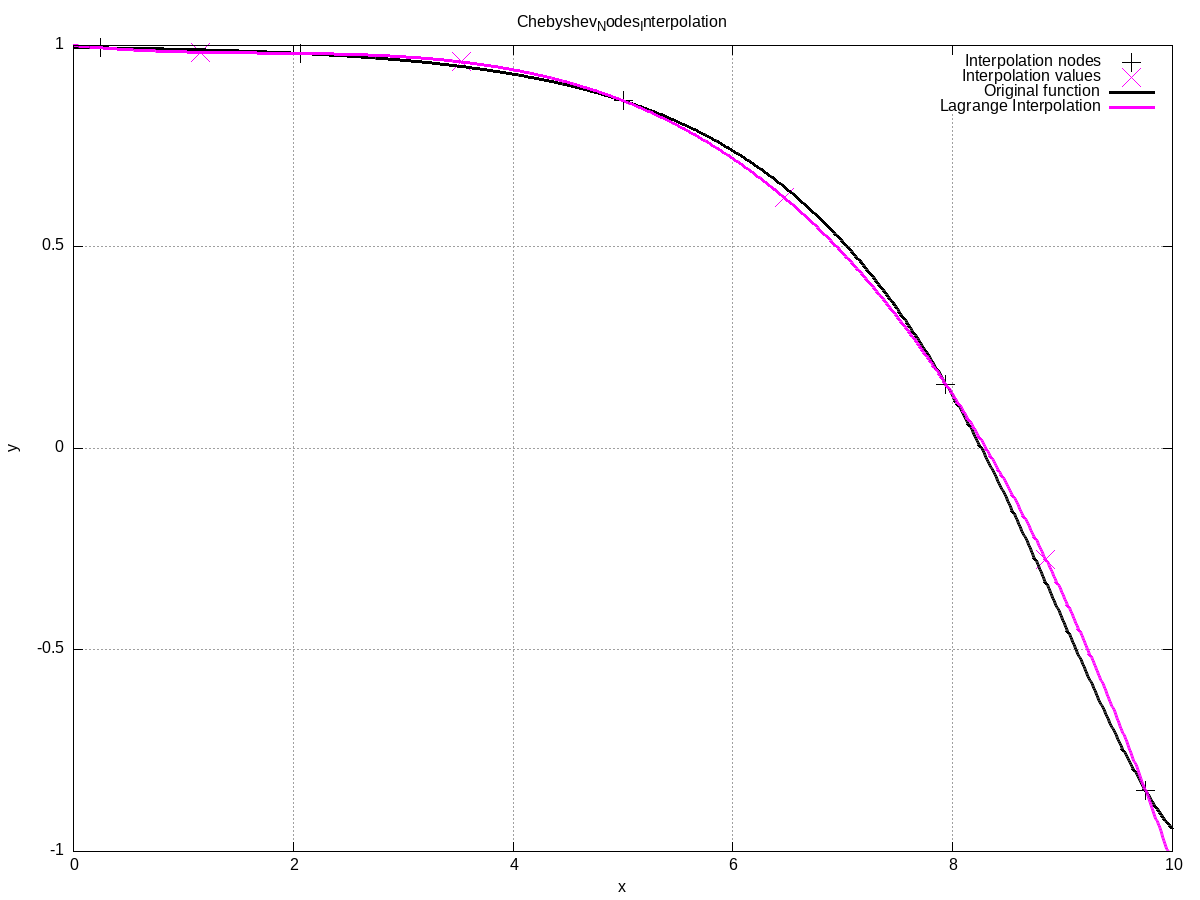
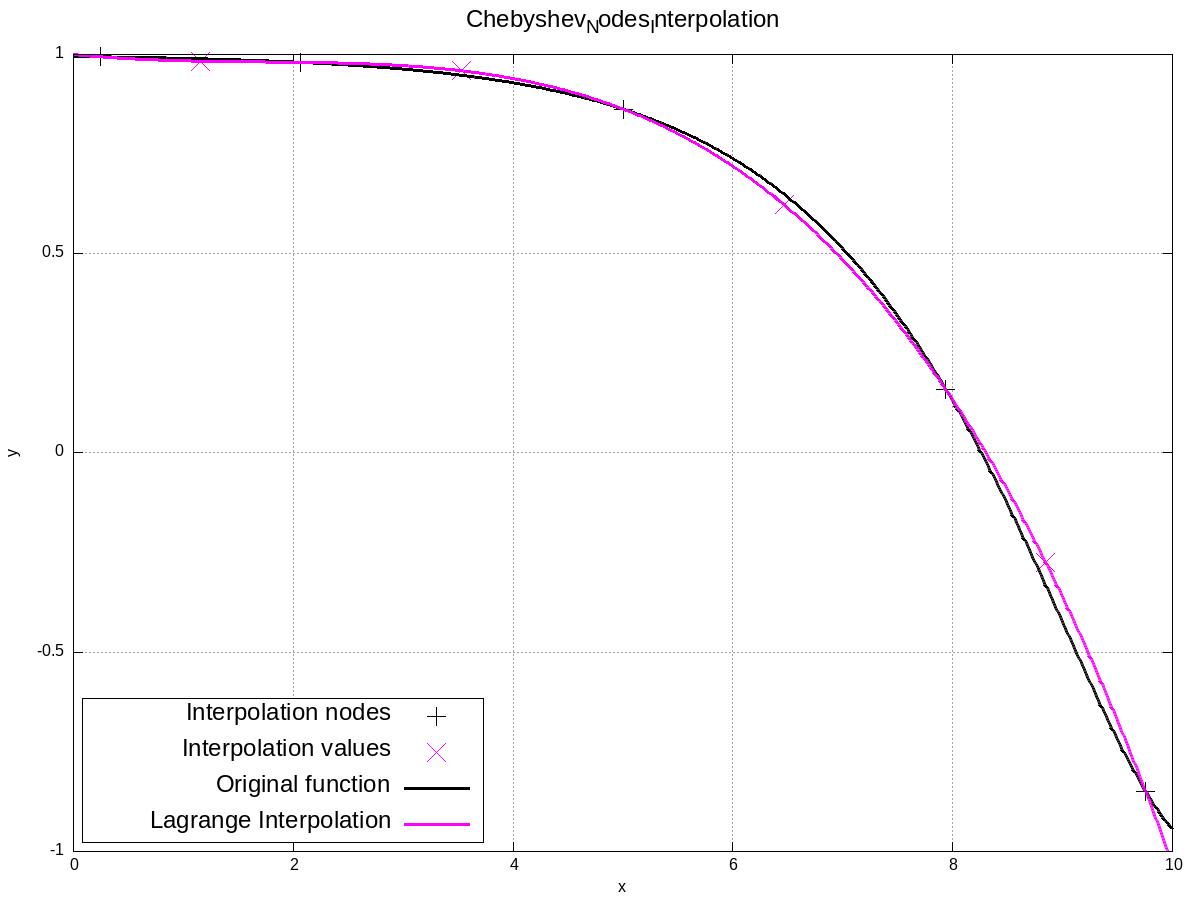
README, plot font size

diff --git a/cpp/main.cpp b/cpp/main.cpp
@@ -51,8 +51,8 @@ int main() {
     std::vector<double> y_uniform_extra_values   = LagrangeInterpolation::interpolateRange(x_uniform_nodes, y_uniform_nodes, x_extra_values);
     std::vector<double> y_chebyshev_extra_values = LagrangeInterpolation::interpolateRange(x_chebyshev_nodes, y_chebyshev_nodes, x_extra_values);
 
-    plotResults(x_uniform_nodes, y_uniform_nodes, x_uniform_middle_values, y_uniform_middle_values, x_extra_values, y_extra_values, y_uniform_extra_values, "[0:10]", "[-1:1]", "Uniform_Nodes_Interpolation");
-    plotResults(x_chebyshev_nodes, y_chebyshev_nodes, x_chebyshev_middle_values, y_chebyshev_middle_values, x_extra_values, y_extra_values, y_chebyshev_extra_values, "[0:10]", "[-1:1]", "Chebyshev_Nodes_Interpolation");
+    plotResults(x_uniform_nodes, y_uniform_nodes, x_uniform_middle_values, y_uniform_middle_values, x_extra_values, y_extra_values, y_uniform_extra_values, "[0:10]", "[-1:1]", "Uniform Nodes Interpolation");
+    plotResults(x_chebyshev_nodes, y_chebyshev_nodes, x_chebyshev_middle_values, y_chebyshev_middle_values, x_extra_values, y_extra_values, y_chebyshev_extra_values, "[0:10]", "[-1:1]", "Chebyshev Nodes Interpolation");
 
     return 0;
 }

diff --git a/cpp/src/plotting.cpp b/cpp/src/plotting.cpp
@@ -1,6 +1,7 @@
 #include "plotting.h"
 #include <fstream>
 #include <iostream>
+#include <cstdlib>
 
 std::string getPlotsDir() {
     const char* plotsDirEnv = std::getenv("PLOTS_DIR");
@@ -41,9 +42,12 @@ void plotResults(const std::vector<double>& x_nodes, const std::vector<double>& 
                << "set output '" + PLOTS_DIR + "images/" + title + ".png'\n"
                << "set xlabel 'x'\n"
                << "set ylabel 'y'\n"
-               << "set grid\n";
+               << "set grid\n"
+               << "set key left bottom box\n"
+               << "set key font ',18'\n"
+               << "set key spacing 1.5\n";
     if (title != "")
-        scriptFile << "set title '" << title << "'\n";
+        scriptFile << "set title '" << title << "' font ',18'\n";
     if (xrange != "")
         scriptFile << "set xrange " + xrange + "\n";
     if (yrange != "")
